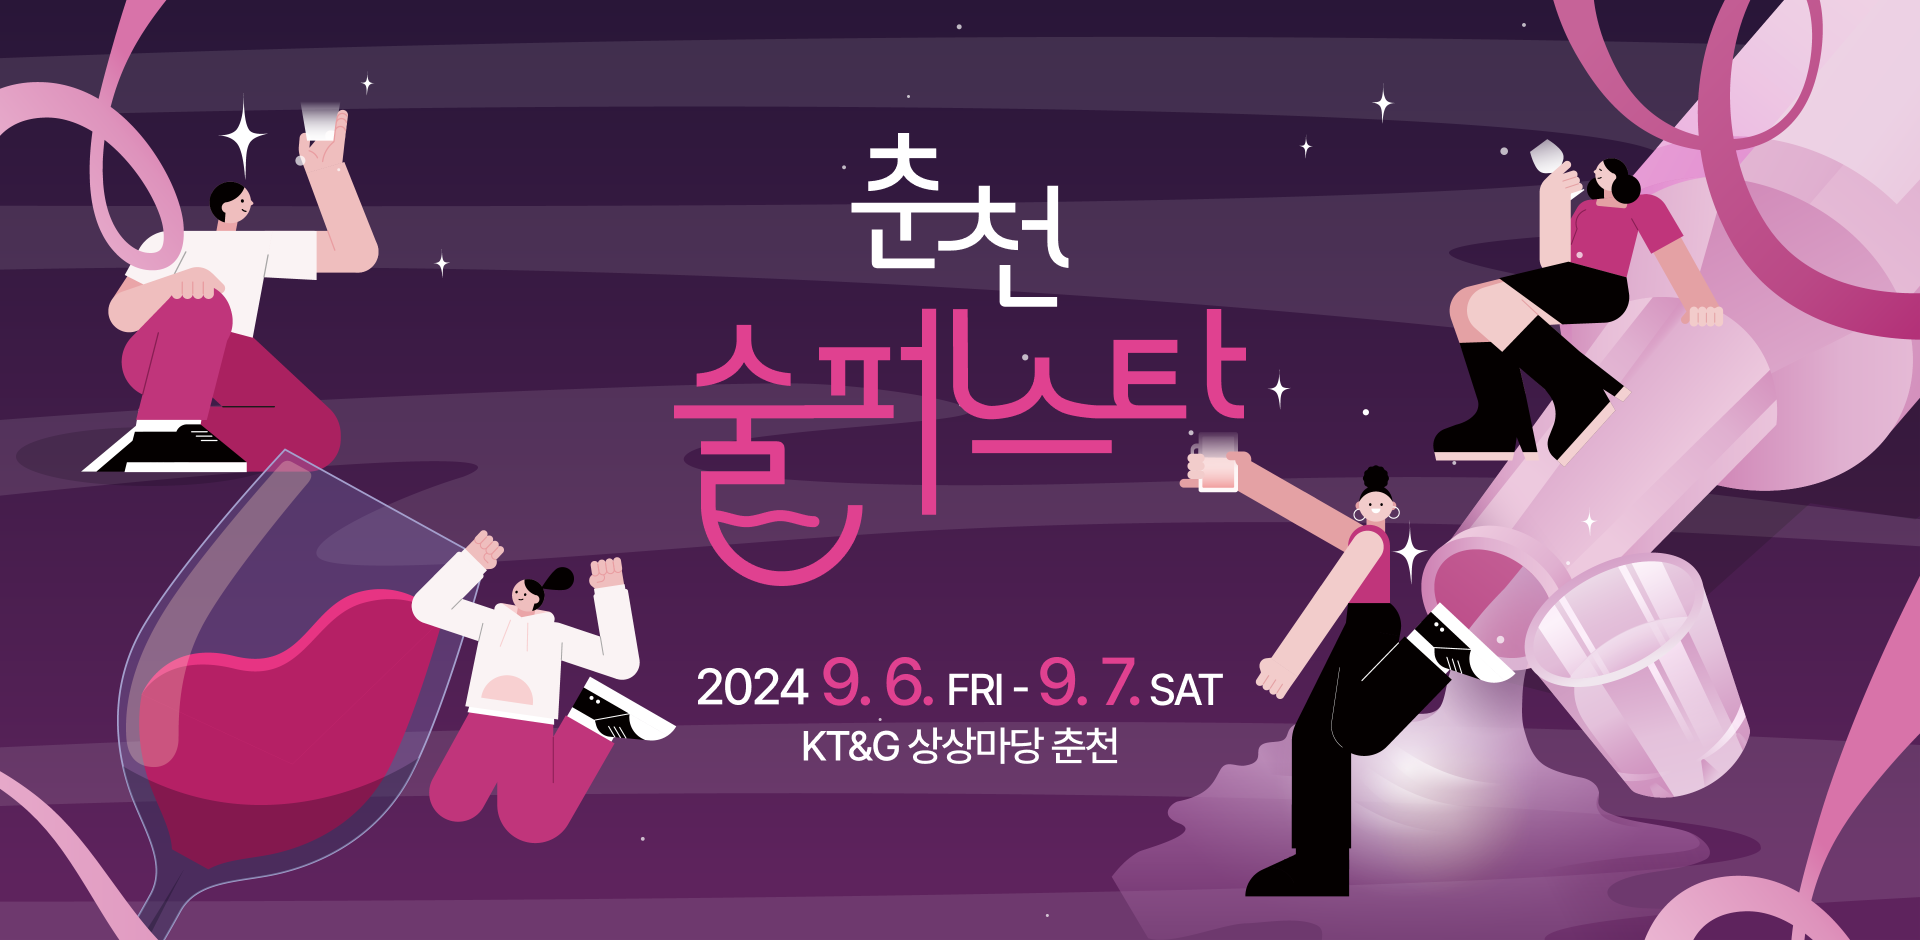
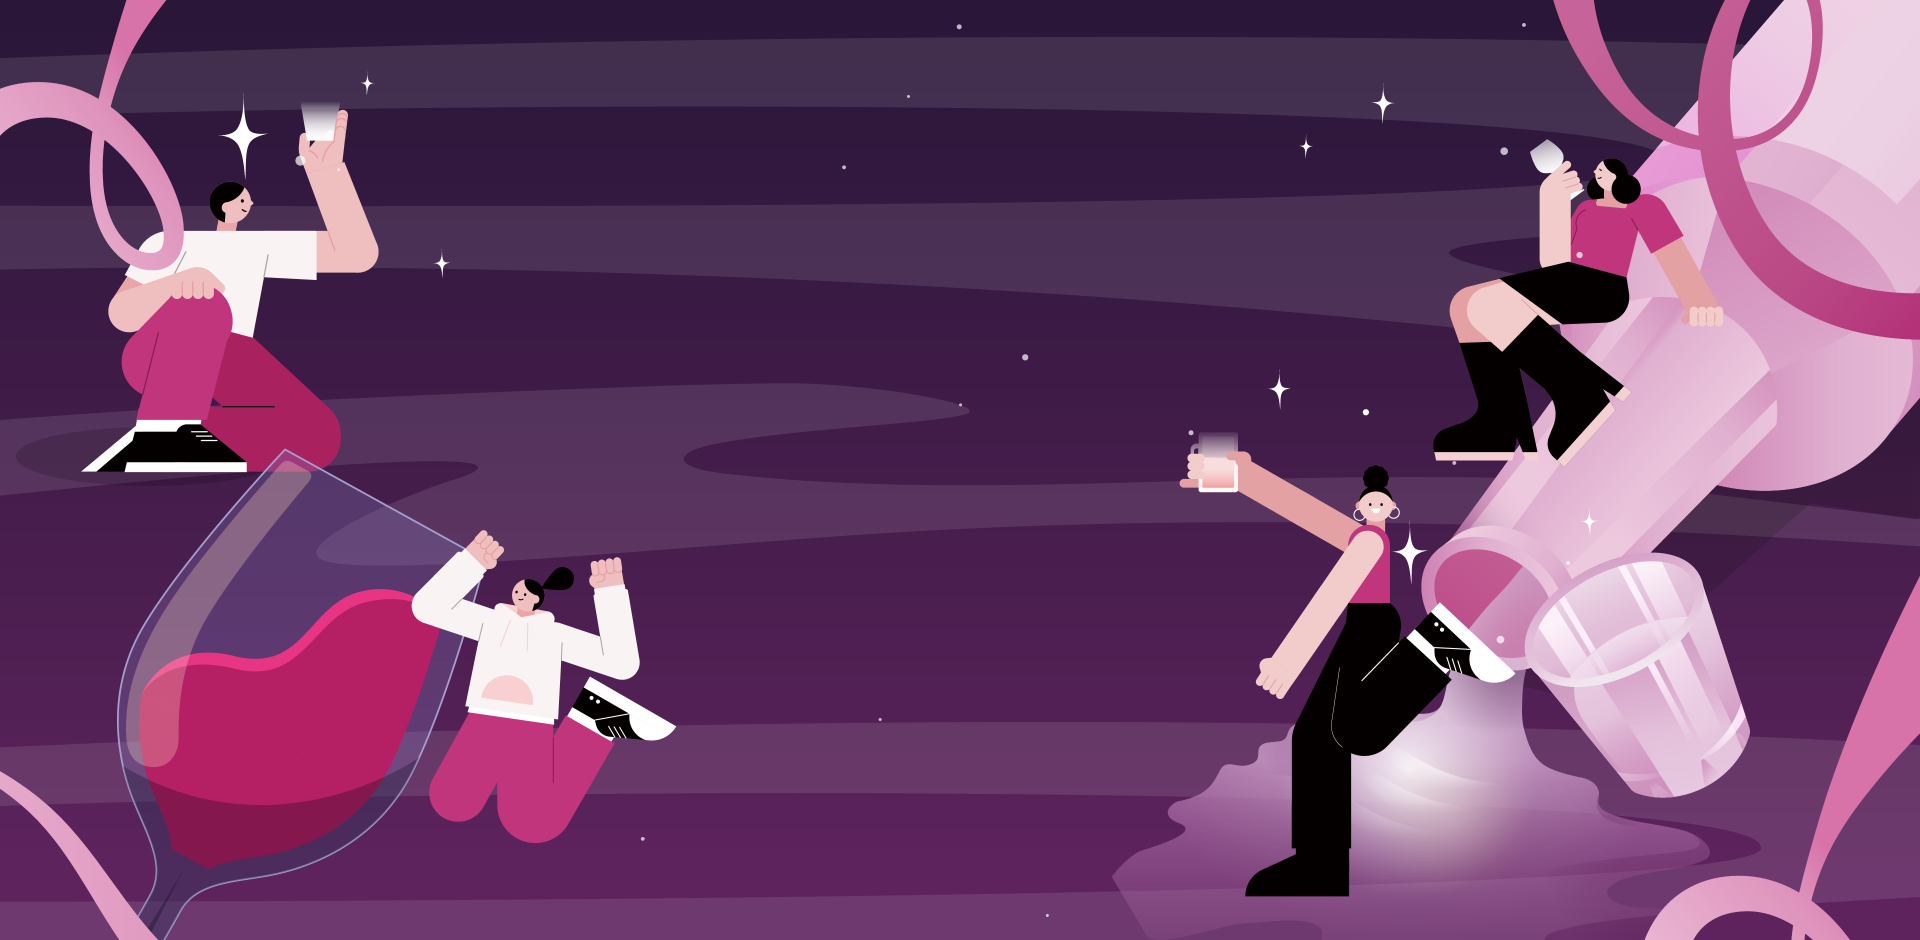
퍼블리싱 완료

Changed region(s): [[0.3438, 0.1543, 0.6562, 0.617], [0.3438, 0.6787, 0.6562, 0.833]]

diff --git a/festa/src/main/webapp/css/egovframework/pict/main.css b/festa/src/main/webapp/css/egovframework/pict/main.css
@@ -114,24 +114,6 @@ header nav ul li:not(:last-of-type) {
 }
 
 
-.root .right-people {
-    width: 431px;
-    display: flex;
-    align-items: center;
-    justify-content: center;
-    position: absolute;
-    bottom: 0;
-    right: 10%;
-    transform: translateY(70%);
-}
-
-.root .right-people img {
-	
-}
-
-.root .sns-container {
-	display: flex;
-}
 .root .sns-container > button {
 	position: relative;
 	z-index: 1;
@@ -175,6 +157,24 @@ header nav ul li:not(:last-of-type) {
     z-index: -1;
     background-position: center;
 	background-origin: center;
+}
+.main-titles{
+	display: flex;
+	flex-direction: column;
+	align-items: center;
+	row-gap: 70px;
+}
+.main-titles h1{
+	 max-width: 572px;
+}
+.main-titles h1 img{
+	width: 100%;
+}
+.date{
+	 max-width: 524px;
+}
+.date img{
+	width: 100%;
 }
 
 .insta {
@@ -1149,17 +1149,17 @@ header nav ul li:not(:last-of-type) {
 
 
 .root .map-circle-container.hosu {
-    top: 43%;
-    left: 48%;
+    top: 55%;
+    left: 64%;
 }
 .root .map-circle-container.squeeze {
-    top: 48%;
-    left: 52%;
+    top: 47%;
+    left: 55%;
 }
 
 .root .map-circle-container.chuncheon {
-	top: 56%;
-    left: 59%;
+	top: 55%;
+    left: 58%;
 }
 
 .root .map-circle-container.jisiul {
@@ -1173,8 +1173,53 @@ header nav ul li:not(:last-of-type) {
 }
 
 .root .map-circle-container.midury {
+	top: 40%;
+    left: 50%;
+}
+
+.root .map-circle-container.grape {
+	top: 34.5%;
+    left: 48%;
+}
+
+.root .map-circle-container.uibyeong {
+	top: 77%;
+    right: 85.5%;
+}
+
+.root .map-circle-container.jipeyong {
 	top: 37%;
     left: 49%;
+}
+
+.root .map-circle-container.bomne1 {
+	top: 52.5%;
+    left: 52%;
+}
+
+.root .map-circle-container.distealer {
+	top: 66.5%;
+    left: 55%;
+}
+
+.root .map-circle-container.bomne2 {
+	top: 47%;
+    left: 47%;
+}
+
+.root .map-circle-container.soyang {
+	top: 41%;
+    left: 55%;
+}
+
+.root .map-circle-container.slow {
+    top: 44%;
+    left: 52%;
+}
+
+.root .map-circle-container.jipeyong {
+    top: 71%;
+    left: 51%;
 }
 
 .root .comments-container {
@@ -1839,7 +1884,18 @@ header nav ul li:not(:last-of-type) {
 	    display: none;
 	}
 	.root .main-section .main-back {
-		background-image: url("../../../img/main/main-back-mobile.webp");
+		background-image: url("../../../img/main/main-back-mobile.png");
+	}
+	.main-titles{
+	    height: 100%;	
+		row-gap: 20px;
+		padding-top: 49%;
+	}
+	.main-titles h1{
+		 max-width: 214px;
+	}
+	.date{
+		 max-width: 196px;
 	}
 	.root .sns-container {
 		flex-direction: column;

diff --git a/festa/src/main/webapp/js/festa.js b/festa/src/main/webapp/js/festa.js
@@ -169,11 +169,8 @@ window.addEventListener("scroll", (event) => {
 
 window.addEventListener('resize', ()=> {
 	eventGague = swiper.snapGrid.length;
-	eventGague2 = swiper2.snapGrid.length;
 	const width = 100 / eventGague;
-	const width2 = 100 / eventGague2;
 	document.querySelector(".gauge").style.width = width + "%";
-	document.querySelector(".gauge2").style.width = width2 + "%";
 })
 
 
